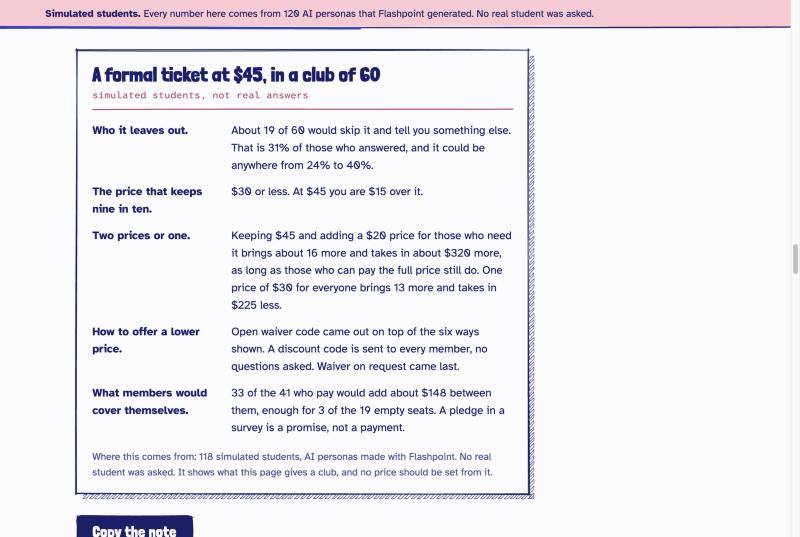
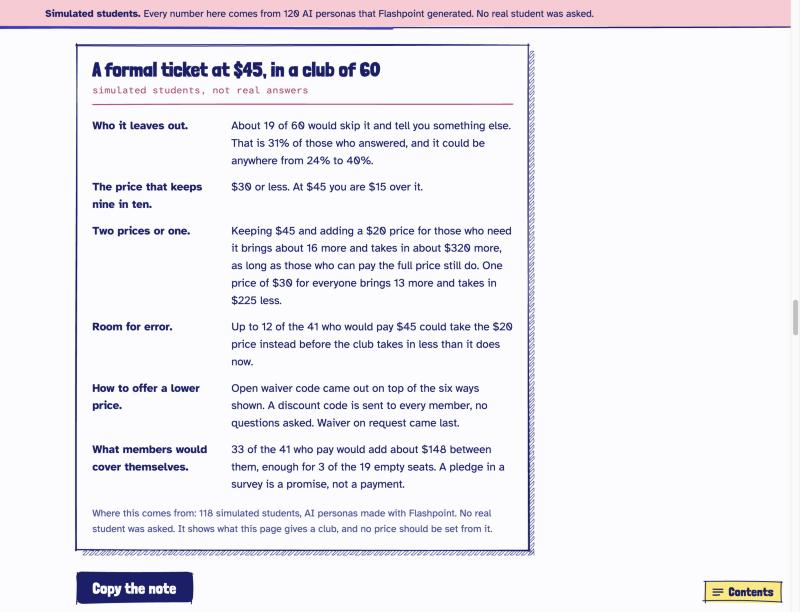
Give the room for error its own line in the board note
Inside "Two prices or one" it made that line six lines long. As a line of
its own it can be found at a glance. The README's picture of the note is
taken again to match.

diff --git a/site/js/lib/plan.js b/site/js/lib/plan.js
@@ -86,8 +86,6 @@ function twoPricesOrOne(rows, item, price, size) {
     const second = two.accessPrice === 0 ? "a free place" : `a ${money(two.accessPrice)} price`;
     const takes = change > 0 ? `takes in about ${money(change)} more` : "costs the club nothing it was getting";
     said.push(`Keeping ${money(price)} and adding ${second} for those who need it brings about ${two.there - now.there} more and ${takes}, as long as those who can pay the full price still do.`);
-    const spare = roomSaid(roomForTwo(ways), price);
-    if (spare) said.push(spare);
   }
   if (lower) {
     const change = lower.taken - now.taken;
@@ -141,6 +139,7 @@ export function plan(dataset, { itemId, price, size }) {
     { key: "out", lead: "Who it leaves out.", text: leftOut(shares, price, size, out) },
     { key: "gentle", lead: "The price that keeps nine in ten.", text: nineInTen(rows, item, price) },
     { key: "ways", lead: "Two prices or one.", text: twoPricesOrOne(rows, item, price, size) },
+    { key: "room", lead: "Room for error.", text: roomSaid(roomForTwo(waysToPrice(rows, item, price, size)), price) },
     { key: "fix", lead: "How to offer a lower price.", text: howToOffer(fixes) },
     { key: "pledges", lead: "What members would cover themselves.", text: coveredByMembers(rows, rules, price, size, out) },
   ].filter((line) => line.text !== null);

diff --git a/README.md b/README.md
@@ -29,7 +29,7 @@ Engineering & Product track.
 
 ![The price check: a formal ticket at $45 in a club of 60, drawn as a room of seats, 19 of them empty](docs/screenshot-answer.jpg)
 
-![The note for the board: a card headed “A formal ticket at $45, in a club of 60” and labelled “simulated students, not real answers”, with five lines on who the price leaves out, the price that keeps nine in ten, two prices or one, how to offer a lower price and what members would cover themselves, and a last line saying where the numbers come from](docs/screenshot-note.jpg)
+![The note for the board: a card headed “A formal ticket at $45, in a club of 60” and labelled “simulated students, not real answers”, with six lines on who the price leaves out, the price that keeps nine in ten, two prices or one, the room for error, how to offer a lower price and what members would cover themselves, and a last line saying where the numbers come from](docs/screenshot-note.jpg)
 
 ## Read this first: the numbers are simulated
 
@@ -118,7 +118,7 @@ One page, in the order a treasurer would use it.
    how many empty seats the pool pays for.
 5. **The receipt for a year in your club.** Dues, formal and trip on one printable slip,
    with the share lost at each line and at any line.
-6. **What to take to your board.** The answer in five lines on a card that can be copied,
+6. **What to take to your board.** The answer in six lines on a card that can be copied,
    which says under its title and in its last line whose answers it rests on. Under it,
    the same decision as a message a treasurer can send to members.
 7. **What these numbers are, and what they are not.** Who answered, and what the numbers
